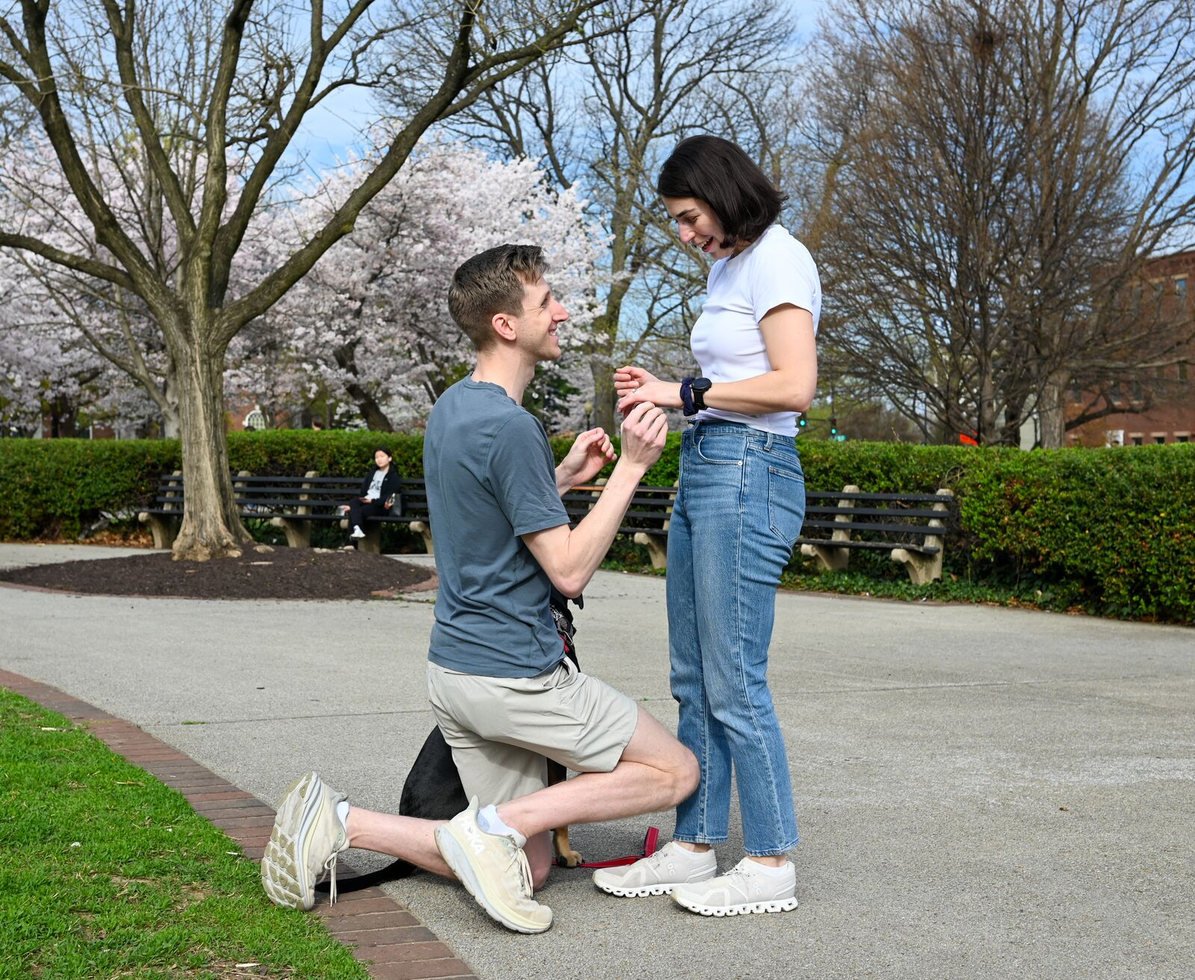
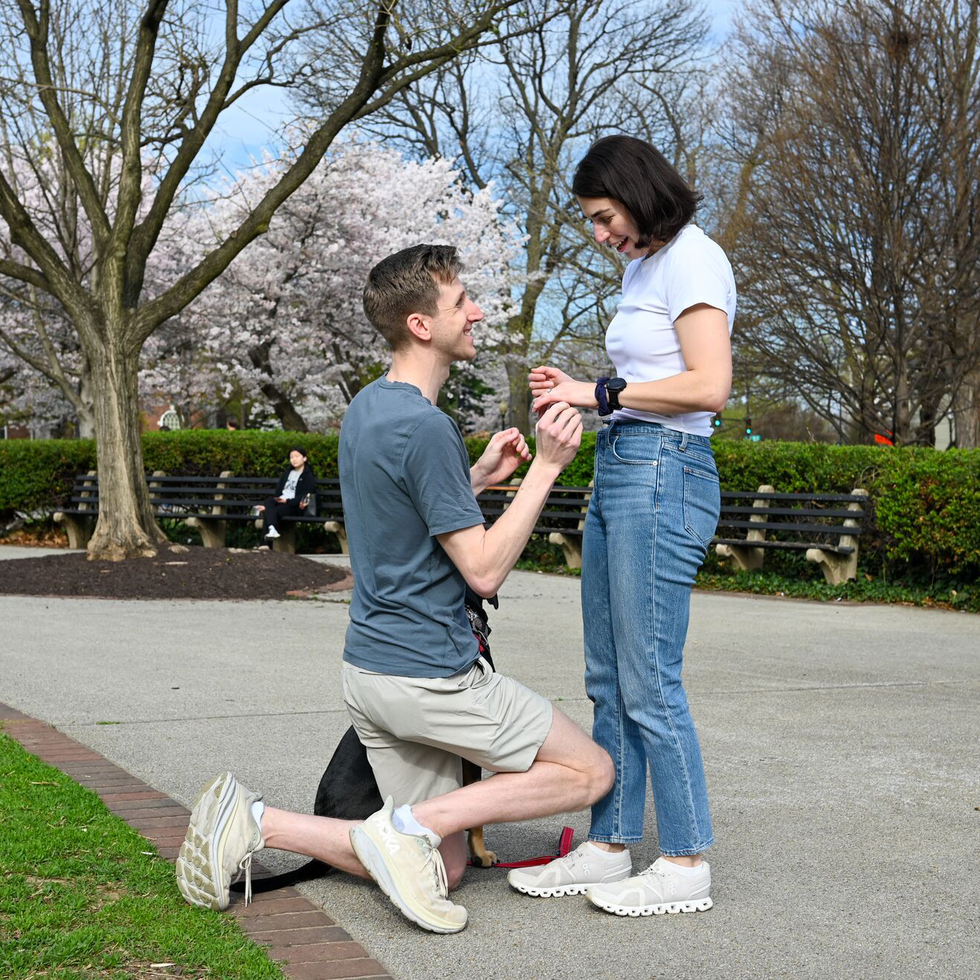
fix: add image credits and refine ornamental dividers

diff --git a/_includes/divider.html b/_includes/divider.html
@@ -2,22 +2,21 @@
   Section divider. A plain rule by default; pass ornament=true for the ornament version (use it for the first
   divider on a page). Params: ornament=true, sentinel=true (marks the divider the top bar watches), class (extra CSS classes).
 
-  Ornament: cleaned from assets/img/divider-ornament.svg (source), with one change: each swoop's stroke path
-  continues in a straight line far past the ornament's edge (3000 units, about 11,000px), so the rule and the
+  Ornament: cleaned from assets/img/divider-ornament.svg (source, drawn 42px tall with 1px strokes), with one change:
+  each swoop's stroke path continues in a straight line far past the ornament's edge (3000 units), so the rule and the
   swoop are ONE stroked path: no joint, identical weight and antialiasing at any zoom or pixel density. The SVG
   shows overflow and .divider clips it to the container width, so the rules always run edge to edge.
 {%- endcomment -%}
 {%- if include.ornament -%}
 <div class="divider{% if include.class %} {{ include.class }}{% endif %}" role="separator"{% if include.sentinel %} data-sticky-sentinel{% endif %}>
   <div class="divider__line">
-  <svg class="divider__ornament" viewBox="0 0 25.42 11.29" aria-hidden="true" focusable="false">
-    <path fill="none" stroke="currentColor" stroke-miterlimit="10" stroke-width=".25" d="M6.37,4.05l-2.07.8C2.93,5.37,1.47,5.64,0,5.64H-3000"/>
-    <path fill="none" stroke="currentColor" stroke-miterlimit="10" stroke-width=".25" d="M3025.42,5.64H25.42c-1.47,0-2.93.27-4.3.8l-2.07.8"/>
-    <path fill="currentColor" d="M9.59.25c1.71,0,3.09,1.39,3.09,3.09s-1.39,3.09-3.09,3.09-3.09-1.39-3.09-3.09S7.89.25,9.59.25h0ZM9.59,0c-1.85,0-3.34,1.5-3.34,3.34s1.5,3.34,3.34,3.34,3.34-1.5,3.34-3.34-1.5-3.34-3.34-3.34h0Z"/>
-    <path fill="currentColor" d="M9.59,1.25c1.15,0,2.09.94,2.09,2.09s-.94,2.09-2.09,2.09-2.09-.94-2.09-2.09.94-2.09,2.09-2.09h0ZM9.59,1c-1.29,0-2.34,1.05-2.34,2.34s1.05,2.34,2.34,2.34,2.34-1.05,2.34-2.34-1.05-2.34-2.34-2.34h0Z"/>
-    <path fill="currentColor" d="M17.79,2.65c.06,0,.11.03.13.08.42.81,1.72,3.66.68,6.28-.46,1.17-1.74,2.02-3.02,2.02-.36,0-.72-.07-1.04-.2-.71-.29-1.29-.87-1.61-1.65-.34-.82-.36-1.73-.05-2.49,1.08-2.61,3.99-3.76,4.86-4.05.02,0,.03,0,.05,0h0ZM17.79,2.4s-.09,0-.13.02c-.98.33-3.9,1.5-5.01,4.19-.67,1.62.09,3.77,1.8,4.46.37.15.75.22,1.14.22,1.39,0,2.75-.91,3.25-2.18,1.07-2.7-.22-5.58-.69-6.49-.07-.14-.21-.22-.36-.22h0Z"/>
-    <path fill="currentColor" d="M15.58,10.16c-.25,0-.49-.05-.72-.14-.49-.2-.9-.62-1.13-1.17-.25-.6-.27-1.28-.05-1.82.76-1.84,2.61-2.86,3.73-3.32.48,1.11,1.1,3.13.37,4.98-.33.84-1.28,1.47-2.21,1.47Z"/>
-    <path fill="currentColor" d="M17.35,3.87c.46,1.11,1.01,3.03.32,4.77-.31.79-1.21,1.39-2.09,1.39-.23,0-.46-.04-.67-.13-.46-.19-.84-.58-1.06-1.11-.24-.57-.26-1.21-.05-1.72.72-1.73,2.44-2.73,3.55-3.21h0ZM17.48,3.55c-1.08.44-3.1,1.48-3.91,3.44-.24.57-.22,1.29.05,1.92.25.59.67,1.03,1.2,1.24.24.1.5.15.76.15h0c.98,0,1.98-.67,2.33-1.55.78-1.96.05-4.12-.42-5.19h0Z"/>
+  <svg class="divider__ornament" viewBox="0 0 93.56 42" aria-hidden="true" focusable="false">
+    <path class="divider__stroke" fill="none" stroke="currentColor" stroke-miterlimit="10" d="M23.7,15.07l-7.7,2.98c-5.1,1.93-10.53,2.94-16,2.94H-3000"/>
+    <path class="divider__stroke" fill="none" stroke="currentColor" stroke-miterlimit="10" d="M3093.56,20.98H93.56c-5.47,0-10.9,1-16,2.98l-7.7,2.98"/>
+    <path class="divider__stroke" fill="none" stroke="currentColor" stroke-miterlimit="10" d="M35.67,24.33c-6.56,0-11.9-5.34-11.9-11.9S29.11.53,35.67.53s11.9,5.34,11.9,11.9-5.34,11.9-11.9,11.9Z"/>
+    <path class="divider__stroke" fill="none" stroke="currentColor" stroke-miterlimit="10" d="M35.67,4.18c-4.55,0-8.25,3.7-8.25,8.25s3.7,8.25,8.25,8.25,8.25-3.7,8.25-8.25-3.7-8.25-8.25-8.25h0Z"/>
+    <path class="divider__stroke" fill="none" stroke="currentColor" stroke-miterlimit="10" d="M56.99,41.5c-1.41,0-2.77-.26-4.05-.78-2.78-1.12-5-3.38-6.25-6.37-1.32-3.15-1.38-6.63-.17-9.56,3.95-9.57,14.14-13.89,18.33-15.3.09-.03.23-.05.33-.05.38,0,.72.21.89.54,2.04,3.94,6.35,14.13,2.55,23.73-1.78,4.52-6.67,7.79-11.62,7.79Z"/>
+    <path fill="currentColor" d="M64.06,13.24l-.04-.04c-4.02,1.64-11.53,5.51-14.54,12.8-.89,2.12-.82,4.8.19,7.14.93,2.19,2.49,3.83,4.46,4.61.89.37,1.86.56,2.83.56,3.65,0,7.37-2.49,8.67-5.77,2.9-7.29.19-15.33-1.56-19.31Z"/>
   </svg>
   </div>
 </div>

diff --git a/_includes/image-group.html b/_includes/image-group.html
@@ -1,12 +1,15 @@
 {%- comment -%}
-  1, 2 or 4 images with an optional caption. Params: group (images: [{src, alt, width, height}], caption),
+  1, 2 or 4 images with an optional caption. Params: group (images: [{src, alt, width, height}], caption, narrow),
   edit_path (the data file the group lives in, for ?edit). Used standalone and inside timeline items.
-  A lone portrait image is narrower than a lone landscape one; grids (2 or 4) always stay side by side, never stacking.
+  A lone portrait image (or one with `narrow: true` in its group) is narrower than a lone landscape one; grids (2 or 4) always stay side by side, never stacking.
 {%- endcomment -%}
 {%- assign images = include.group.images -%}
 {%- assign count = images | size -%}
 {%- assign first = images | first -%}
-<figure class="image-group image-group--{{ count }}{% if count == 1 and first.height > first.width %} image-group--portrait{% endif %}" {% if include.edit_path %}{% include edit-attr.html path=include.edit_path %}{% endif %}>
+{%- assign is_narrow = false -%}
+{%- if count == 1 and first.height > first.width %}{% assign is_narrow = true %}{% endif -%}
+{%- if count == 1 and include.group.narrow %}{% assign is_narrow = true %}{% endif -%}
+<figure class="image-group image-group--{{ count }}{% if is_narrow %} image-group--portrait{% endif %}" {% if include.edit_path %}{% include edit-attr.html path=include.edit_path %}{% endif %}>
   <div class="image-group__images">
     {%- for image in images %}
     {%- include image.html src=image.src alt=image.alt width=image.width height=image.height class="image-group__img" %}

diff --git a/assets/css/tokens.css b/assets/css/tokens.css
@@ -211,7 +211,7 @@
   --section-gap: var(
     --space-225
   ); /* between blocks on a long page (Our Story) */
-  --divider-space: var(--space-400); /* above and below a section divider */
+  --divider-space: var(--space-300); /* above and below a section divider */
 
   /* Content column: every block is at most --measure of content plus a --space-150 gutter each side. */
   --block-max: calc(var(--measure) + var(--space-150) * 2); /* 688px */
@@ -240,14 +240,12 @@
   --tab-unit: 10;
 
   /* ---------- Ornament divider ----------
-     Set the ornament HEIGHT (42px on desktop, per Figma); width follows the SVG's 25.42 x 11.29 ratio.
-     The side rules are SVGs of the same height, so their stroke weight scales with the ornament. */
+     Set the ornament HEIGHT (42px on desktop, per Figma); width follows the SVG's 93.56 x 42 ratio (it includes the swoop stubs).
+     The side rules are strokes in the same SVG. */
   --divider-ornament-height: 32px;
-  --divider-ornament-width: calc(
-    var(--divider-ornament-height) * 25.42 / 11.29
-  );
-  /* A plain rule matches the ornament's stroke weight (0.25 of 11.29 units tall). */
-  --divider-rule-weight: calc(var(--divider-ornament-height) * 0.25 / 11.29);
+  --divider-ornament-width: calc(var(--divider-ornament-height) * 93.56 / 42);
+  /* Every rule is 1px: the plain rule, and the ornament's swoop strokes (non-scaling, see .divider__stroke). */
+  --divider-rule-weight: 1px;
 
   /* ---------- Timeline ---------- */
   --timeline-dot: 13px;

diff --git a/assets/css/components.css b/assets/css/components.css
@@ -605,6 +605,11 @@
   height: var(--divider-rule-weight);
   background: currentColor;
 }
+.divider__stroke {
+  /* Screen-pixel stroke, so the rules stay --divider-rule-weight at any ornament size. */
+  vector-effect: non-scaling-stroke;
+  stroke-width: var(--divider-rule-weight);
+}
 .divider__ornament {
   flex: none;
   width: var(--divider-ornament-width);

diff --git a/assets/css/base.css b/assets/css/base.css
@@ -62,7 +62,7 @@ ol {
 .content > * {
   max-width: var(--block-max);
   margin-inline: auto;
-  padding-inline: var(--space-150);
+  padding-inline: var(--space-125);
   padding-bottom: var(--paragraph-spacing);
 }
 /* Headings sit closer to what they introduce; section headings and block components get extra room above. */

diff --git a/our-story.md b/our-story.md
@@ -9,6 +9,7 @@ hero:
   src: engagement-steps.jpg
   width: 1600
   height: 1067
+  caption: (Charla Jasper)
   alt: Jenna, Tyler and Pigs sit on the steps outside Tyler's old apartment building after getting engaged on March 30, 2025.
 ---
 
@@ -65,6 +66,8 @@ On the left is an heirloom round-cut diamond that was the gift of Jenna’s mate
 On the right is a pear-shaped Montana sapphire. This is an homage to the couple’s first big hiking trip together to Glacier National Park in August 2021.
 
 The two stones are set such that they rest on one another, just like Jenna and Tyler rely on each other for support.
+
+{% include image-group.html group=site.data.story_images.ring-close edit_path="_data/story_images.yml" %}
 
 The sapphire is oriented outward and upward with a thick prong that points towards their future trajectory together.
 

diff --git a/index.md b/index.md
@@ -7,5 +7,6 @@ hero:
   src: engagement-pig-bronco.jpg
   width: 2400
   height: 1600
+  caption: (Charla Jasper)
   alt: Jenna and Tyler pose in Stanton Park after getting engaged on March 30, 2025. Pigs struck his now-iconic "bucking bronco" pose at just the right moment.
 ---
